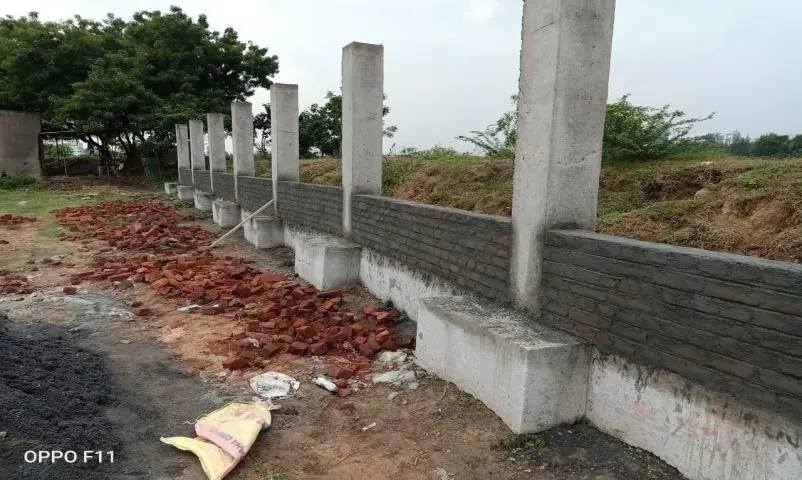
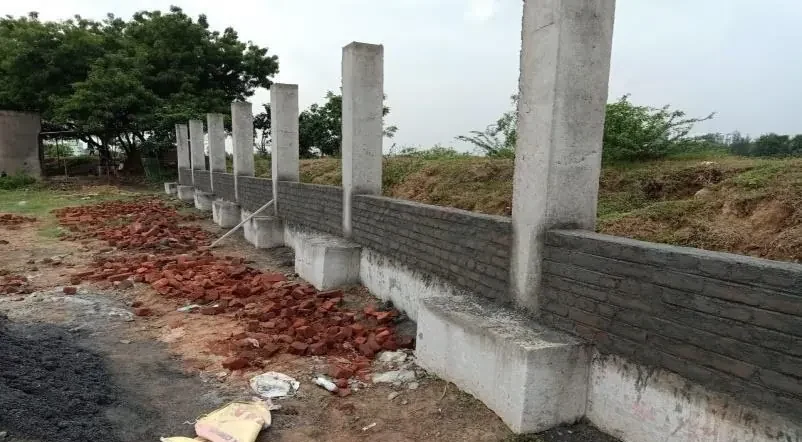
Updated website

diff --git a/src/data/projects.js b/src/data/projects.js
@@ -1,4 +1,5 @@
 // Project portfolio from the 2026 company profile.
+// `desc` is the short line on the card; `details` is the longer write-up shown in the gallery.
 // Order matters: "wide" cards span 8 of 12 columns, so each row adds up to 12.
 export const projectFilters = [
   { id: "all", label: "All" },
@@ -10,21 +11,21 @@ export const projectFilters = [
 ];
 
 export const projects = [
-  { title: "NH716B Six Laning", client: "Chittoor – Thatchur Road", desc: "Filling, levelling & compaction work with field dry density tests alongside the client.", cats: ["roads", "filling"], size: "wide", featured: true, imgs: ["nh716b-3", "nh716b-1", "nh716b-2", "nh716b-4", "nh716b-5", "nh716b-fdd"] },
-  { title: "IOCL Plant, Manali", client: "Indian Oil Corporation", desc: "Mass filling and soil filling & compaction for the upcoming IOCL plant.", cats: ["filling"], featured: true, imgs: ["iocl-2", "iocl-1", "iocl-3"] },
-  { title: "Chennai Metro Depot", client: "CMRL · Poonamallee", desc: "Soil filling, grading & compaction with levelling tests for the metro depot.", cats: ["filling"], featured: true, imgs: ["cmrl-3", "cmrl-2", "cmrl-1", "cmrl-4"] },
-  { title: "PolyHose India", client: "PolyHose India Pvt Ltd", desc: "Mass filling, levelling & compaction using CAT motor graders and rollers.", cats: ["filling"], featured: true, imgs: ["polyhose-2", "polyhose-1", "polyhose-3"] },
-  { title: "RCC Bridge", client: "Somangalam, Chetpet", desc: "Construction of an RCC bridge and approach road works.", cats: ["water"], featured: true, imgs: ["bridge-1", "bridge-2"] },
-  { title: "Government Tank", client: "Govt. of Tamil Nadu", desc: "Lake work and construction of retaining walls for the government tank.", cats: ["water"], featured: true, imgs: ["govt-lake", "govt-lake-wall"] },
-  { title: "RWD Chembarambakkam", client: "Ramky Wavoo · Phases 1–4", desc: "18 m wide BT roads with kerb stone, Hume pipe storm water drains, earth filling & grading.", cats: ["roads", "filling"], size: "wide", featured: true, imgs: ["rwd-chemba-2", "rwd-chemba-1", "rwd-chemba-3", "rwd-chemba-4"] },
-  { title: "Sameera Estates", client: "Sameera Township", desc: "BT road (DBM & SDBC) with centre median, thermoplastic marking and RCC / NP3 storm water drains.", cats: ["roads"], imgs: ["sameera-bt-2", "sameera-bt-1", "sameera-drain"] },
-  { title: "4 km Compound Wall", client: "Sameera · Sameera 117", desc: "Compound wall covering 4 km, plus retaining wall construction.", cats: ["building"], imgs: ["sameera-wall-1", "sameera-wall-2", "sameera-retaining"] },
-  { title: "Fomra Housing", client: "Fomra Housing Infrastructure", desc: "Building construction: foundations, columns and basement floor concreting.", cats: ["building"], imgs: ["fomra-2", "fomra-1", "fomra-3"] },
-  { title: "Nova Element 05", client: "Nova Developers · Thiruverkadu", desc: "GSB & WMM formation and BT road for a plot development project.", cats: ["roads", "filling"], size: "wide", imgs: ["nova-2", "nova-1", "nova-3"] },
-  { title: "Thorapakkam Highway", client: "Road Work", desc: "Mass filling and levelling for the highway road formation.", cats: ["roads", "filling"], imgs: ["thorapakkam-1", "thorapakkam-2"] },
-  { title: "Adyar River Restoration", client: "Phase-3 Master Plan", desc: "Compound wall construction for the Adyar River restoration works.", cats: ["building", "water"], imgs: ["adyar-1", "adyar-2"] },
-  { title: "Building Construction", client: "Residential & Individual Houses", desc: "Shuttering works, roof concrete and finishing levels.", cats: ["building"], imgs: ["building-2", "building-1", "house-1"] },
-  { title: "Government Roads", client: "Poondhandalam · Nandhambakkam", desc: "WMM laying for bituminous road and paver tile roads.", cats: ["roads"], imgs: ["govt-wmm", "govt-paver"] },
-  { title: "IOCL Expansion", client: "Ongoing", desc: "Mass filling work and soil FDD testing.", cats: ["filling", "ongoing"], live: true, imgs: ["iocl-ongoing"] },
-  { title: "RWD Phase-5 Highlight", client: "Ongoing", desc: "Mass filling and GSB levelling work.", cats: ["filling", "roads", "ongoing"], live: true, size: "wide", imgs: ["rwd5-2", "rwd5-1"] },
+  { title: "NH716B Six Laning", client: "Chittoor – Thatchur Road", desc: "Filling, levelling & compaction work with field dry density tests alongside the client.", details: "Earthwork on the NH716B six-lane highway between Chittoor and Thatchur. Our scope covered filling the road embankment, levelling it with motor graders and compacting it layer by layer with soil compactors. Every compacted layer was checked with field dry density (FDD) tests carried out together with the client's engineers before the next layer went on, so the formation meets the specified density from bottom to top.", cats: ["roads", "filling"], size: "wide", featured: true, imgs: ["nh716b-fdd", "nh716b-3", "nh716b-1", "nh716b-2", "nh716b-4", "nh716b-5"] },
+  { title: "IOCL Plant, Manali", client: "Indian Oil Corporation", desc: "Mass filling and soil filling & compaction for the upcoming IOCL plant.", details: "Site preparation for an upcoming Indian Oil Corporation plant at Manali. We carried out mass filling to raise the site to its design level, then spread and compacted the soil in layers. Our own tippers kept fill material moving to site without waiting on hired trucks, and compaction was checked at each stage so the ground is ready for the plant's construction.", cats: ["filling"], featured: true, imgs: ["iocl-2", "iocl-1", "iocl-3"] },
+  { title: "Chennai Metro Depot", client: "CMRL · Poonamallee", desc: "Soil filling, grading & compaction with levelling tests for the metro depot.", details: "Earthwork for the Chennai Metro Rail (CMRL) depot at Poonamallee. The work involved soil filling, grading to the design levels and compaction across the depot area. Levelling tests were taken as the work progressed to confirm the finished surface matched the required levels before handing over for the depot's next stage of works.", cats: ["filling"], featured: true, imgs: ["cmrl-3", "cmrl-2", "cmrl-1", "cmrl-4"] },
+  { title: "PolyHose India", client: "PolyHose India Pvt Ltd", desc: "Mass filling, levelling & compaction using CAT motor graders and rollers.", details: "Ground preparation for PolyHose India Pvt Ltd's industrial site. We handled mass filling, levelling and compaction, using our own CAT motor graders to shape the surface and rollers to compact each layer, leaving a firm, level platform ready for the client's construction.", cats: ["filling"], featured: true, imgs: ["polyhose-2", "polyhose-1", "polyhose-3"] },
+  { title: "RCC Bridge", client: "Somangalam, Chetpet", desc: "Construction of an RCC bridge and approach road works.", details: "Construction of a reinforced cement concrete (RCC) bridge at Somangalam, Chetpet, together with its approach roads. The work covered the bridge structure itself and the earthwork and road layers needed to connect it smoothly to the existing road.", cats: ["water"], featured: true, imgs: ["bridge-1", "bridge-2"] },
+  { title: "Government Tank", client: "Govt. of Tamil Nadu", desc: "Lake work and construction of retaining walls for the government tank.", details: "Restoration of a government tank for the Government of Tamil Nadu. Our scope included the lake work (excavation and deepening) and building retaining walls along the bund to protect the banks and hold the edges of the water body in shape.", cats: ["water"], featured: true, imgs: ["govt-lake", "govt-lake-wall"] },
+  { title: "RWD Chembarambakkam", client: "Ramky Wavoo · Phases 1–4", desc: "18 m wide BT roads with kerb stone, Hume pipe storm water drains, earth filling & grading.", details: "Infrastructure for Ramky Wavoo Developers' Chembarambakkam layout, delivered across Phases 1 to 4. We laid 18 m wide bituminous (BT) roads with kerb stones, built storm water drains using Hume pipes, and carried out the earth filling and grading for the plots, giving the layout a complete, ready-to-use road and drainage network.", cats: ["roads", "filling"], size: "wide", featured: true, imgs: ["rwd-chemba-2", "rwd-chemba-1", "rwd-chemba-3", "rwd-chemba-4"] },
+  { title: "Sameera Estates", client: "Sameera Township", desc: "BT road (DBM & SDBC) with centre median, thermoplastic marking and RCC / NP3 storm water drains.", details: "Road and drainage works for Sameera Township. We built bituminous roads in two layers, Dense Bituminous Macadam (DBM) topped with Semi-Dense Bituminous Concrete (SDBC), with a centre median and thermoplastic road markings. Storm water is carried away by RCC and NP3 pipe drains built alongside the roads.", cats: ["roads"], imgs: ["sameera-bt-2", "sameera-bt-1", "sameera-drain"] },
+  { title: "4 km Compound Wall", client: "Sameera · Sameera 117", desc: "Compound wall covering 4 km, plus retaining wall construction.", details: "A compound wall running around 4 km for the Sameera and Sameera 117 developments, plus retaining walls where the ground level changes. A boundary wall of this length needs consistent foundations and a straight, even alignment along its whole run.", cats: ["building"], imgs: ["sameera-wall-1", "sameera-wall-2", "sameera-retaining"] },
+  { title: "Fomra Housing", client: "Fomra Housing Infrastructure", desc: "Building construction: foundations, columns and basement floor concreting.", details: "Building construction for Fomra Housing Infrastructure. Our work covered the foundations, column casting and concreting of the basement floor, carried out with proper shuttering and reinforcement as per the structural drawings.", cats: ["building"], imgs: ["fomra-2", "fomra-1", "fomra-3"] },
+  { title: "Nova Element 05", client: "Nova Developers · Thiruverkadu", desc: "GSB & WMM formation and BT road for a plot development project.", details: "Plot development for Nova Developers' Element 05 project at Thiruverkadu. We built the road base with Granular Sub-Base (GSB) and Wet Mix Macadam (WMM) layers and finished it with a bituminous (BT) road surface, giving the layout its internal roads.", cats: ["roads", "filling"], size: "wide", imgs: ["nova-2", "nova-1", "nova-3"] },
+  { title: "Thorapakkam Highway", client: "Road Work", desc: "Mass filling and levelling for the highway road formation.", details: "Road formation on the Thorapakkam highway. We carried out mass filling and levelling to bring the road bed up to the required profile, preparing a compacted base for the pavement layers that follow.", cats: ["roads", "filling"], imgs: ["thorapakkam-1", "thorapakkam-2"] },
+  { title: "Adyar River Restoration", client: "Phase-3 Master Plan", desc: "Compound wall construction for the Adyar River restoration works.", details: "Part of Phase 3 of the Adyar River restoration master plan. We built compound walls along the restored stretch to protect the riverside area and mark its boundary.", cats: ["building", "water"], imgs: ["adyar-1", "adyar-2"] },
+  { title: "Building Construction", client: "Residential & Individual Houses", desc: "Shuttering works, roof concrete and finishing levels.", details: "Residential construction for individual house owners. The work shown here includes shuttering, roof slab concreting and bringing floors to their finished levels. We take on houses, villas and apartments from foundation to finish.", cats: ["building"], imgs: ["building-2", "building-1", "house-1"] },
+  { title: "Government Roads", client: "Poondhandalam · Nandhambakkam", desc: "WMM laying for bituminous road and paver tile roads.", details: "Government road works at Poondhandalam and Nandhambakkam. We laid Wet Mix Macadam (WMM) as the base for bituminous roads, and built paver-tile roads on other stretches.", cats: ["roads"], imgs: ["govt-wmm", "govt-paver"] },
+  { title: "IOCL Expansion", client: "Ongoing", desc: "Mass filling work and soil FDD testing.", details: "Ongoing earthwork for the expansion of the IOCL facility. We are carrying out mass filling and testing the compacted soil with field dry density (FDD) tests as each layer is completed.", cats: ["filling", "ongoing"], live: true, imgs: ["iocl-ongoing"] },
+  { title: "RWD Phase-5 Highlight", client: "Ongoing", desc: "Mass filling and GSB levelling work.", details: "Ongoing work on Phase 5 of the Ramky Wavoo (RWD) development, following on from Phases 1 to 4. Current work covers mass filling and levelling of the Granular Sub-Base (GSB) layer ahead of road surfacing.", cats: ["filling", "roads", "ongoing"], live: true, size: "wide", imgs: ["rwd5-2", "rwd5-1"] },
 ];

diff --git a/src/components/common/common.css b/src/components/common/common.css
@@ -64,7 +64,8 @@
   background: var(--ink); isolation: isolate; border: 0; padding: 0; text-align: left; color: #fff;
 }
 .pcard--wide { grid-column: span 8; }
-.pcard img { position: absolute; inset: 0; width: 100%; height: 100%; object-fit: cover; transition: transform 1.2s var(--ease); z-index: -2; }
+.pcard img { position: absolute; inset: 0; width: 100%; height: 100%; object-fit: cover; transition: transform 1.2s var(--ease), opacity 1.2s ease; z-index: -2; opacity: 0; }
+.pcard img.is-active { opacity: 1; }
 .pcard::after { content: ""; position: absolute; inset: 0; z-index: -1; background: linear-gradient(0deg, rgba(23, 20, 58, .95) 0%, rgba(23, 20, 58, .35) 45%, transparent 70%); transition: background .5s; }
 .pcard:hover img { transform: scale(1.1) rotate(.6deg); }
 .pcard:hover::after { background: linear-gradient(0deg, rgba(42, 37, 96, .96) 0%, rgba(244, 140, 51, .45) 100%); }
@@ -81,14 +82,15 @@
 .pcard:hover .pcard__plus { transform: scale(1) rotate(0); }
 
 /* ---------- Lightbox ---------- */
-.lightbox { position: fixed; inset: 0; z-index: 2000; background: rgba(23, 20, 58, .94); backdrop-filter: blur(10px); display: grid; place-items: center; padding: 60px 80px; animation: fadeIn .35s ease; }
+.lightbox { position: fixed; inset: 0; z-index: 2000; background: rgba(23, 20, 58, .94); backdrop-filter: blur(10px); display: grid; place-items: center; padding: 60px 80px; overflow-y: auto; animation: fadeIn .35s ease; }
 .lightbox__fig { margin: 0; max-width: 1100px; width: 100%; }
-.lightbox__fig img { width: 100%; max-height: 74vh; object-fit: contain; border-radius: 16px; animation: zoomIn .45s var(--ease); }
+.lightbox__fig img { width: 100%; max-height: 62vh; object-fit: contain; border-radius: 16px; animation: zoomIn .45s var(--ease); }
 @keyframes zoomIn { from { transform: scale(.94); opacity: 0; } }
 .lightbox__fig figcaption { display: flex; flex-wrap: wrap; align-items: baseline; gap: 6px 14px; color: #fff; margin-top: 16px; }
 .lightbox__fig figcaption b { font-family: var(--f-head); font-size: 26px; text-transform: uppercase; color: var(--gold); }
 .lightbox__fig figcaption span { color: rgba(255, 255, 255, .8); }
 .lightbox__fig figcaption small { margin-left: auto; color: rgba(255, 255, 255, .55); font-weight: 700; letter-spacing: 1px; }
+.lightbox__details { flex-basis: 100%; max-width: 860px; margin: 6px 0 0; color: rgba(255, 255, 255, .85); font-size: 16px; line-height: 1.65; }
 .lightbox__close, .lightbox__nav { position: absolute; border: 0; background: rgba(255, 255, 255, .1); color: #fff; border-radius: 50%; width: 54px; height: 54px; font-size: 34px; line-height: 1; display: grid; place-items: center; transition: background .3s; }
 .lightbox__close:hover, .lightbox__nav:hover { background: var(--orange); }
 .lightbox__close { top: 20px; right: 20px; }

diff --git a/src/components/sections/sections.css b/src/components/sections/sections.css
@@ -43,7 +43,7 @@
 .hero__badge { position: absolute; z-index: 3; right: 7%; bottom: 14%; width: 170px; height: 170px; }
 .hero__badge svg { width: 100%; height: 100%; animation: spin 18s linear infinite; }
 .hero__badge text { fill: #fff; font-family: var(--f-head); font-weight: 700; font-size: 15.5px; letter-spacing: 3.2px; }
-.hero__badge img { position: absolute; inset: 50% auto auto 50%; width: 76px; transform: translate(-50%, -50%); background: #fff; border-radius: 50%; padding: 16px 13px; box-shadow: 0 10px 30px rgba(0, 0, 0, .3); }
+.hero__badge img { position: absolute; inset: 50% auto auto 50%; width: 92px; height: 92px; object-fit: contain; transform: translate(-50%, -50%); background: #fff; border-radius: 50%; padding: 18px 14px; box-shadow: 0 10px 30px rgba(0, 0, 0, .3); }
 .hero__counter { position: absolute; z-index: 3; left: max(20px, calc((100% - 1240px) / 2)); bottom: 36px; font-family: var(--f-head); display: flex; align-items: baseline; gap: 6px; }
 .hero__counter b { font-size: 34px; color: var(--gold); }
 .hero__counter span { opacity: .6; letter-spacing: 2px; }
@@ -102,8 +102,8 @@
 .fleet-strip:hover .fleet-strip__track { animation-play-state: paused; }
 .fleet-strip figure { margin: 0; width: clamp(260px, 30vw, 420px); aspect-ratio: 16/10; border-radius: 20px; overflow: hidden; flex: none; }
 .fleet-strip figure:nth-child(even) { transform: translateY(26px); border-radius: 80px 20px 80px 20px; }
-.fleet-strip img { width: 100%; height: 100%; object-fit: cover; transition: transform 1s var(--ease), filter .6s; filter: saturate(.9); }
-.fleet-strip figure:hover img { transform: scale(1.1); filter: saturate(1.2); }
+.fleet-strip img { width: 100%; height: 100%; object-fit: cover; transition: transform 1s var(--ease), filter .6s; filter: var(--photo); }
+.fleet-strip figure:hover img { transform: scale(1.1); filter: var(--photo) saturate(1.1); }
 .equip { display: grid; grid-template-columns: repeat(6, 1fr); gap: 16px; margin-top: 30px; }
 .equip__card { background: #fff; border: 1px solid var(--line); border-radius: 18px; padding: 24px 20px; transition: transform .4s var(--ease), box-shadow .4s, opacity .9s var(--ease); }
 .equip__card:hover { box-shadow: var(--shadow); }
@@ -240,7 +240,7 @@
   .plant__tabs button.is-active { transform: translateY(-4px); }
   .plant__stage { min-height: 380px; }
   .hero__badge { width: 120px; height: 120px; right: 20px; bottom: 90px; }
-  .hero__badge img { width: 54px; padding: 11px 9px; }
+  .hero__badge img { width: 66px; height: 66px; padding: 13px 10px; }
   .hero__shape--orange { width: 50vw; opacity: .6; }
   .quality__imgs { height: 420px; }
 }

diff --git a/src/components/common/Lightbox.jsx b/src/components/common/Lightbox.jsx
@@ -1,6 +1,8 @@
 import { useCallback, useEffect, useRef, useState } from "react";
+import useInterval from "../../hooks/useInterval.js";
+import { prefersReducedMotion } from "../../hooks/useReveal.js";
 
-/** Full-screen gallery for one project. Arrow keys, swipe and Esc supported. */
+/** Full-screen gallery for one project. Auto-advances; arrow keys, swipe and Esc supported. */
 export default function Lightbox({ project, onClose }) {
   const [index, setIndex] = useState(0);
   const closeRef = useRef(null);
@@ -8,6 +10,9 @@ export default function Lightbox({ project, onClose }) {
   const total = project.imgs.length;
 
   const step = useCallback((d) => setIndex((i) => (i + d + total) % total), [total]);
+
+  // Keyed on index so a manual step restarts the countdown.
+  useInterval(() => step(1), total > 1 && !prefersReducedMotion() ? 4500 : null, index);
 
   useEffect(() => {
     const prevFocus = document.activeElement;
@@ -45,8 +50,9 @@ export default function Lightbox({ project, onClose }) {
         <img key={index} src={`/images/${project.imgs[index]}.webp`} alt={`${project.title}, photo ${index + 1}`} />
         <figcaption>
           <b>{project.title}</b>
-          <span>{project.client} · {project.desc}</span>
+          <span>{project.client}</span>
           <small>{index + 1} / {total}</small>
+          <p className="lightbox__details">{project.details ?? project.desc}</p>
         </figcaption>
       </figure>
       {total > 1 && <button className="lightbox__nav lightbox__nav--next" aria-label="Next image" onClick={() => step(1)}>›</button>}

diff --git a/src/components/common/ProjectCard.jsx b/src/components/common/ProjectCard.jsx
@@ -1,7 +1,16 @@
+import { useState } from "react";
 import Icon from "./Icon.jsx";
+import useInterval from "../../hooks/useInterval.js";
+import { prefersReducedMotion } from "../../hooks/useReveal.js";
 
 export default function ProjectCard({ project, index = 0, onOpen }) {
   const { title, client, desc, imgs, size, live } = project;
+  const [shown, setShown] = useState(0);
+
+  // Cycle through the project's photos; the delay varies by card so they don't all change together.
+  const auto = imgs.length > 1 && !prefersReducedMotion();
+  useInterval(() => setShown((s) => (s + 1) % imgs.length), auto ? 3800 + (index % 4) * 450 : null);
+
   return (
     <button
       className={`pcard reveal-up ${size ? `pcard--${size}` : ""}`}
@@ -9,7 +18,15 @@ export default function ProjectCard({ project, index = 0, onOpen }) {
       onClick={onOpen}
       aria-label={`Open ${title} gallery`}
     >
-      <img src={`/images/${imgs[0]}.webp`} alt={`${title}: ${desc}`} loading="lazy" />
+      {imgs.map((img, i) => (
+        <img
+          key={img}
+          src={`/images/${img}.webp`}
+          alt={i === 0 ? `${title}: ${desc}` : ""}
+          loading="lazy"
+          className={i === shown ? "is-active" : ""}
+        />
+      ))}
       <span className="pcard__plus">+</span>
       <span className="pcard__count"><Icon name="camera" />{imgs.length}</span>
       <span className="pcard__body">

diff --git a/src/styles/global.css b/src/styles/global.css
@@ -23,6 +23,9 @@
   --shadow: 0 20px 50px -20px rgba(23, 20, 58, .35);
   --ease: cubic-bezier(.2, .8, .2, 1);
   --header-h: 78px;
+
+  /* Lifts the dull site photos: a little brighter, punchier and more colourful. */
+  --photo: brightness(1.06) contrast(1.12) saturate(1.3);
 }
 
 *, *::before, *::after { box-sizing: border-box; }
@@ -39,6 +42,8 @@ body {
 }
 body.is-locked { overflow: hidden; }
 img { max-width: 100%; display: block; }
+/* Site photos are .webp; logos are .png and stay untouched. */
+img[src$=".webp"], .hero__slide, .page-hero__bg { filter: var(--photo); }
 a { color: inherit; text-decoration: none; }
 button { font: inherit; cursor: pointer; }
 h1, h2, h3, h4 { font-family: var(--f-head); line-height: 1.05; margin: 0 0 .5em; color: var(--ink); letter-spacing: .3px; }

diff --git a/src/components/sections/Hero.jsx b/src/components/sections/Hero.jsx
@@ -68,7 +68,7 @@ export default function Hero() {
           <defs><path id="circlePath" d="M100,100 m-78,0 a78,78 0 1,1 156,0 a78,78 0 1,1 -156,0" /></defs>
           <text><textPath href="#circlePath">QUALITY · SAFETY · DEADLINES · SINCE 2009 · </textPath></text>
         </svg>
-        <img src="/images/logo-mark.png" alt="" />
+        <img src="/images/vs-logo.png" alt="" />
       </div>
 
       <div className="hero__counter"><b>{String(current + 1).padStart(2, "0")}</b><span>/ {String(slides.length).padStart(2, "0")}</span></div>
